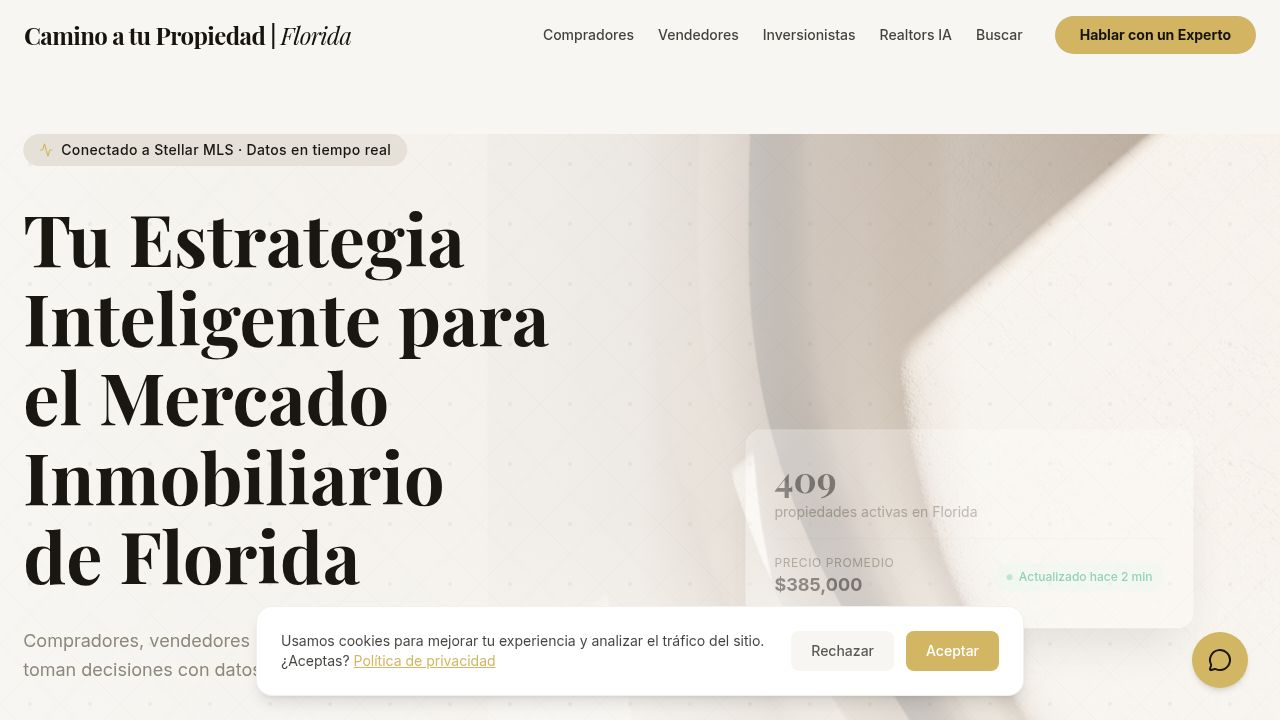
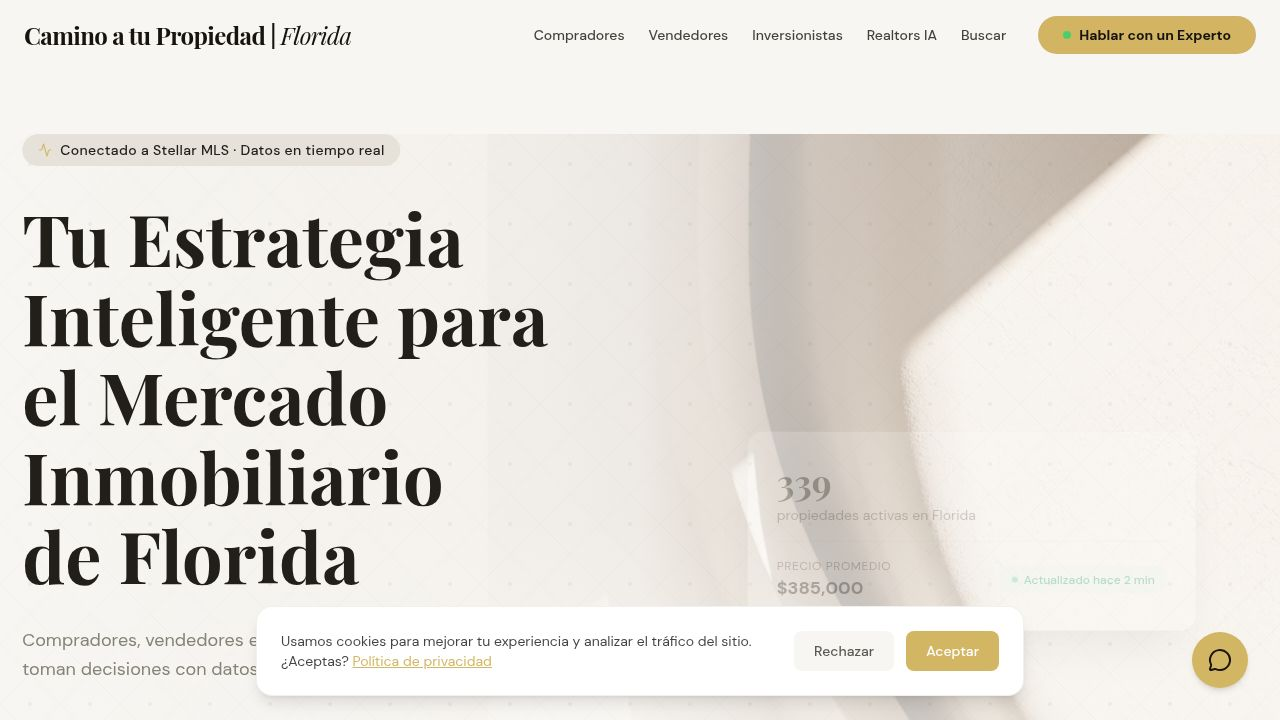
Refine app typography, improve text contrast, and adjust responsive titles
Updates body font to DM Sans, enhances text contrast with adjusted muted-foreground opacity, and modifies responsive title scaling for h2 elements. Includes changes to Google Fonts link and CSS variables.

Replit-Commit-Author: Agent
Replit-Commit-Session-Id: 6f589d72-4f07-44bd-a72b-2aa5bc07d59b
Replit-Commit-Checkpoint-Type: full_checkpoint
Replit-Commit-Event-Id: 6be679b2-2f6c-46bd-889d-9b6fc109188e
Replit-Commit-Screenshot-Url: https://storage.googleapis.com/screenshot-production-us-central1/353982e0-f879-4e56-89ea-e022049efa26/6f589d72-4f07-44bd-a72b-2aa5bc07d59b/UnpHGDM
Replit-Helium-Checkpoint-Created: true

diff --git a/client/src/pages/landing.tsx b/client/src/pages/landing.tsx
@@ -249,8 +249,8 @@ export default function LandingPage() {
                 whileInView={{ opacity: 1, y: 0 }}
                 viewport={{ once: true }}
               >
-                <span className="text-primary font-bold tracking-widest uppercase text-sm mb-4 block">Compradores</span>
-                <h2 className="text-4xl md:text-5xl font-serif font-bold text-[#17140F] mb-6">
+                <span className="text-primary font-bold tracking-[0.15em] uppercase text-sm mb-4 block">Compradores</span>
+                <h2 className="text-3xl md:text-4xl lg:text-5xl font-serif font-bold text-[#17140F] mb-6">
                   Tu Ruta Hacia la Casa Propia
                 </h2>
                 <p className="text-xl text-muted-foreground max-w-2xl mx-auto">
@@ -263,7 +263,7 @@ export default function LandingPage() {
           {/* Pain Points */}
           <div className="py-20 bg-[#E5E1D8]">
             <div className="max-w-4xl mx-auto px-6 text-center">
-              <h2 className="text-3xl md:text-4xl font-serif font-medium mb-16 text-[#17140F]">
+              <h2 className="text-3xl md:text-4xl lg:text-5xl font-serif font-medium mb-16 text-[#17140F]">
                 ¿Te suena familiar?
               </h2>
 
@@ -316,8 +316,8 @@ export default function LandingPage() {
           <div className="py-24 bg-[#F8F6F2] relative overflow-hidden">
             <div className="max-w-7xl mx-auto px-6">
               <div className="text-center max-w-3xl mx-auto mb-16">
-                <span className="text-primary font-bold tracking-widest uppercase text-sm mb-4 block">El Método</span>
-                <h2 className="text-4xl md:text-5xl font-serif font-bold text-[#17140F] mb-6">
+                <span className="text-primary font-bold tracking-[0.15em] uppercase text-sm mb-4 block">El Método</span>
+                <h2 className="text-3xl md:text-4xl lg:text-5xl font-serif font-bold text-[#17140F] mb-6">
                   El camino real para comprar tu casa
                 </h2>
                 <p className="text-xl text-muted-foreground">
@@ -357,7 +357,7 @@ export default function LandingPage() {
                   $2.1M+
                   <span className="block text-base font-medium text-muted-foreground mt-1">en propiedades cerradas este año</span>
                 </motion.p>
-                <h2 className="text-4xl font-serif font-bold text-[#17140F]">No tienes que caminar solo.</h2>
+                <h2 className="text-3xl md:text-4xl lg:text-5xl font-serif font-bold text-[#17140F]">No tienes que caminar solo.</h2>
                 <p className="text-lg text-muted-foreground leading-relaxed">
                   Cada paso está pensado para darte claridad y seguridad. Nosotros nos encargamos de traducir el idioma bancario, negociar los precios y revisar las letras pequeñas.
                 </p>

diff --git a/client/src/components/InversionistasSection.tsx b/client/src/components/InversionistasSection.tsx
@@ -44,8 +44,8 @@ export const InversionistasSection = () => {
           viewport={{ once: true }}
           className="text-center max-w-3xl mx-auto mb-16"
         >
-          <span className="text-primary font-bold tracking-widest uppercase text-sm mb-4 block">Inversionistas</span>
-          <h2 className="text-4xl md:text-5xl font-serif font-bold text-[#17140F] mb-6">
+          <span className="text-primary font-bold tracking-[0.15em] uppercase text-sm mb-4 block">Inversionistas</span>
+          <h2 className="text-3xl md:text-4xl lg:text-5xl font-serif font-bold text-[#17140F] mb-6">
             Inversión Inmobiliaria con Visión Estratégica
           </h2>
           <p className="text-xl text-muted-foreground">

diff --git a/client/src/components/RealtorsIASection.tsx b/client/src/components/RealtorsIASection.tsx
@@ -46,8 +46,8 @@ export const RealtorsIASection = () => {
           viewport={{ once: true }}
           className="text-center max-w-3xl mx-auto mb-16"
         >
-          <span className="text-primary font-bold tracking-widest uppercase text-sm mb-4 block">Realtors IA</span>
-          <h2 className="text-4xl md:text-5xl font-serif font-bold text-[#17140F] mb-6">
+          <span className="text-primary font-bold tracking-[0.15em] uppercase text-sm mb-4 block">Realtors IA</span>
+          <h2 className="text-3xl md:text-4xl lg:text-5xl font-serif font-bold text-[#17140F] mb-6">
             Realtors: Trabaja con IA, Escala sin Límites
           </h2>
           <p className="text-xl text-muted-foreground">

diff --git a/client/src/components/VendedoresSection.tsx b/client/src/components/VendedoresSection.tsx
@@ -49,8 +49,8 @@ export const VendedoresSection = () => {
           viewport={{ once: true }}
           className="text-center max-w-3xl mx-auto mb-16"
         >
-          <span className="text-primary font-bold tracking-widest uppercase text-sm mb-4 block">Vendedores</span>
-          <h2 className="text-4xl md:text-5xl font-serif font-bold text-[#17140F] mb-6">
+          <span className="text-primary font-bold tracking-[0.15em] uppercase text-sm mb-4 block">Vendedores</span>
+          <h2 className="text-3xl md:text-4xl lg:text-5xl font-serif font-bold text-[#17140F] mb-6">
             Vende Estratégicamente, No Solo Rápido
           </h2>
           <p className="text-xl text-muted-foreground">

diff --git a/client/src/components/PropertySearchSection.tsx b/client/src/components/PropertySearchSection.tsx
@@ -39,8 +39,8 @@ export const PropertySearchSection = () => {
           viewport={{ once: true }}
           className="text-center mb-12"
         >
-          <span className="text-primary font-bold tracking-widest uppercase text-sm mb-4 block">Buscar</span>
-          <h2 className="text-4xl md:text-5xl font-serif font-bold text-[#17140F] mb-6">
+          <span className="text-primary font-bold tracking-[0.15em] uppercase text-sm mb-4 block">Buscar</span>
+          <h2 className="text-3xl md:text-4xl lg:text-5xl font-serif font-bold text-[#17140F] mb-6">
             Propiedades Activas en Florida
           </h2>
           <p className="text-xl text-muted-foreground">

diff --git a/client/index.html b/client/index.html
@@ -22,7 +22,7 @@
     <link rel="icon" type="image/png" href="/favicon.png" />
     <link rel="preconnect" href="https://fonts.googleapis.com">
     <link rel="preconnect" href="https://fonts.gstatic.com" crossorigin>
-    <link href="https://fonts.googleapis.com/css2?family=Inter:wght@300;400;500;600;700&family=Playfair+Display:ital,wght@0,400;0,500;0,600;0,700;1,400&display=swap" rel="stylesheet">
+    <link href="https://fonts.googleapis.com/css2?family=DM+Sans:wght@300;400;500;600;700&family=Playfair+Display:ital,wght@0,400;0,500;0,600;0,700;1,400&display=swap" rel="stylesheet">
   </head>
   <body>
     <div id="root"></div>

diff --git a/client/src/index.css b/client/src/index.css
@@ -20,7 +20,7 @@ html {
 }
 
 @theme inline {
-  --font-sans: "Inter", sans-serif;
+  --font-sans: "DM Sans", sans-serif;
   --font-serif: "Playfair Display", serif;
   
   --radius-sm: 0.25rem;
@@ -45,7 +45,7 @@ html {
   --color-secondary-foreground: hsl(38 21% 7%);
 
   --color-muted: hsl(38 20% 87%);
-  --color-muted-foreground: hsl(38 10% 40%);
+  --color-muted-foreground: hsl(38 10% 35%);
 
   --color-accent: hsl(29 31% 70%); /* #CBB29B - Highlight Block */
   --color-accent-foreground: hsl(38 21% 7%);
